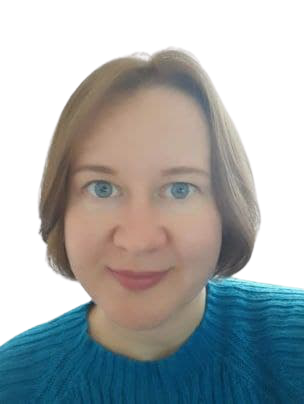
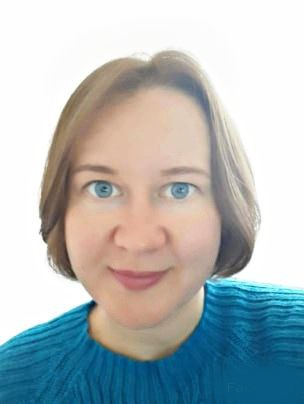
fix: change markdown

diff --git a/styles.css b/styles.css
@@ -13,18 +13,19 @@ body {
   padding: 0;
   font-family: "ABeeZee", sans-serif;
   color: rgb(5, 120, 162);
+  
 }
 
-h1,
 h2,
 h3 {
-  font-size: 20px;
+  font-size: 18px;
   text-transform: uppercase;
 }
 
 a {
-  color: #f9f9d9;
+  color: #f7f7f5;
   text-decoration: none;
+  font-weight: 600;
 }
 
 .conteiner {
@@ -34,12 +35,13 @@ a {
   flex-direction: column;
   margin: 0 auto;
   
+  
 }
 
 .nav-menu {
   display: flex;
   flex-wrap: wrap;
-  justify-content: center;
+  justify-content: space-around;
   align-items: center;
   margin: 0 auto;
   margin-bottom: 10px;
@@ -47,7 +49,7 @@ a {
   height: 70px;
 }
 
-.nav-menu {
+.nav-menu-item {
   list-style-type: none;
   margin-left: 15px;
   text-transform: uppercase;
@@ -56,12 +58,16 @@ a {
 .main-wrapper {
   display: flex;
   min-height: calc(100vh - 150px);
+  
 }
 
 .introduse {
+  display: flex;
+  flex-wrap: wrap;
+  flex-direction: column;
+  justify-content: flex-start;
   max-width: 200px;
   margin: 0 auto;
-  padding-right: 20px;
 }
 
 .introduse > h1 {
@@ -70,7 +76,8 @@ a {
 
 .contacts {
   display: flex;
-  justify-content: flex-start;
+  justify-content: space-around;
+  padding-left: 0;
 }
 
 .contacts > li {
@@ -78,27 +85,22 @@ a {
 }
 
 .avatar {
-  max-width: 200px;
-  border-radius: 50%;
-  box-shadow: 0 0 10 rgb(4, 77, 87);
+  max-width: 220px;
+  border-radius: 30%;
+  box-shadow: 0 0 8px 8px rgb(255, 255, 255) inset;
 }
 
 .wrapper {
   width: 720px;
 }
 
-.section {
-  margin: 0;
-}
-
 .link {
   color: rgb(5, 120, 162);
-  text-decoration: none;
-}
+ }
 
 .contact-icon {
-  width: 30px;
-  height: 30px;
+  width: 45px;
+  height: 45px;
 }
 
 .projects {
@@ -110,7 +112,11 @@ a {
   text-decoration: none;
 }
 
-footer {
+.footer {
+  display: flex;
+  flex-wrap: wrap;
+  justify-content: space-around;
+  align-items: center;
   background-color: rgb(5, 120, 162);
   height: 70px;
   text-align: center;

diff --git a/index.html b/index.html
@@ -28,8 +28,9 @@
     <main class="main-wrapper">
 
       <aside class="introduse">
+
         <img class="avatar" src="images/avatar4cv.png" alt="my photo for cv">
-        <h1>Hello!<br>I'm Mariya</h1>
+        <h1>Hello! I'm Mariya</h1>
         <ul class="contacts">
           <li><a href="https://github.com/MikaLaz"><img class="contact-icon" src="images/Octocat.png"
                 alt="Icon github.com"></a></li>
@@ -90,13 +91,16 @@
         </section>
       </div>
     </main>
-    <footer>
+    <footer class="footer">
       <p>
         <span>&#169;</span><a href="https://github.com/MikaLaz">MikaLaz</a> for
-        <a href="https://rs.school/js/"> <img class="footer-icon" src="images/rs_school_js.svg" alt="Icon RSSchool">
-          JavaScript / Front-end course</a>
-        <br><time datetime="2021">2022</time>
       </p>
+      <a href="https://rs.school/js/">
+        <img class="footer-icon" src="images/rs_school_js.svg" alt="Icon RSSchool">
+        JavaScript / Front-end course
+      </a>
+      <time datetime="2021">2022</time>
+
     </footer>
   </div>
 </body>
